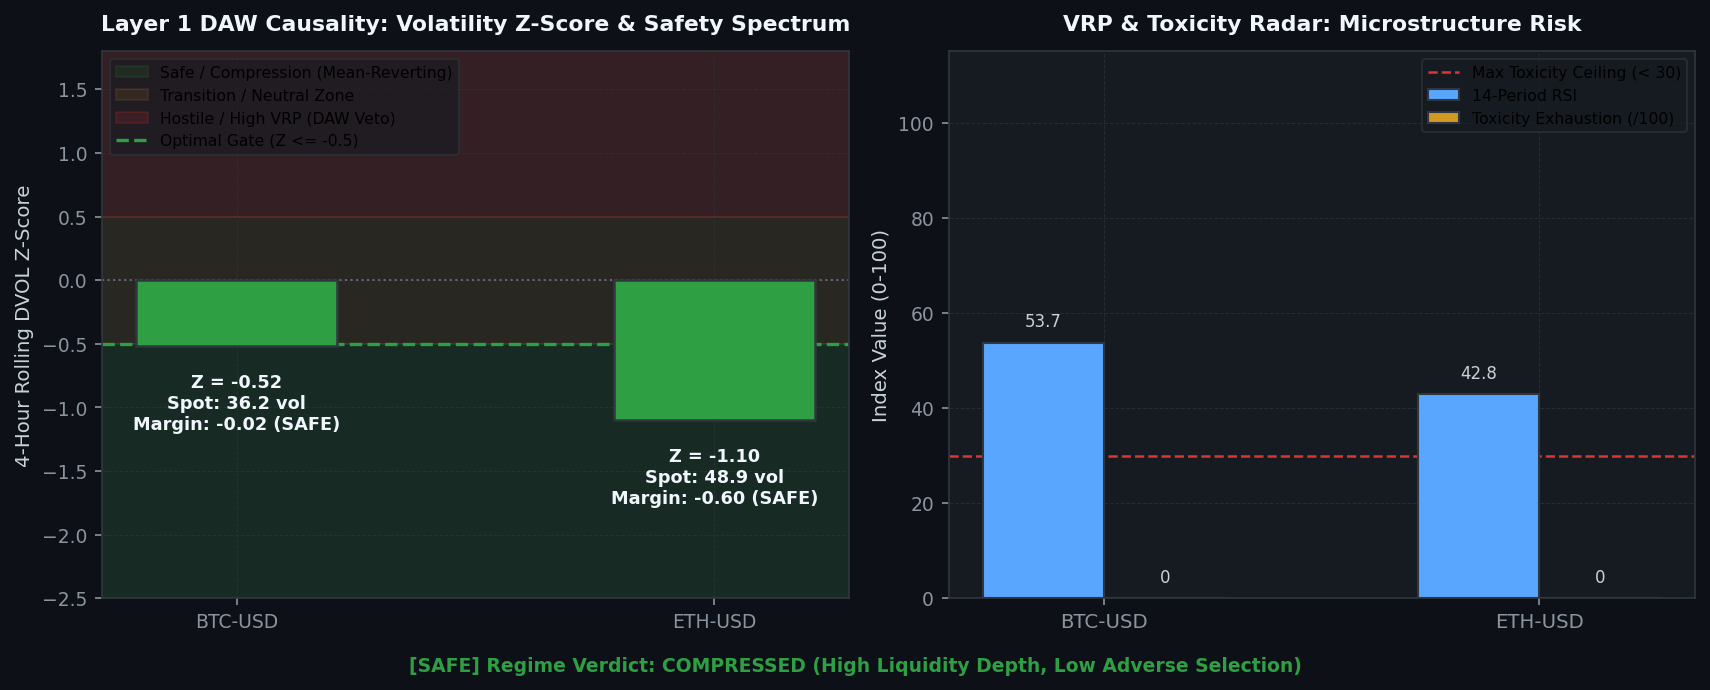
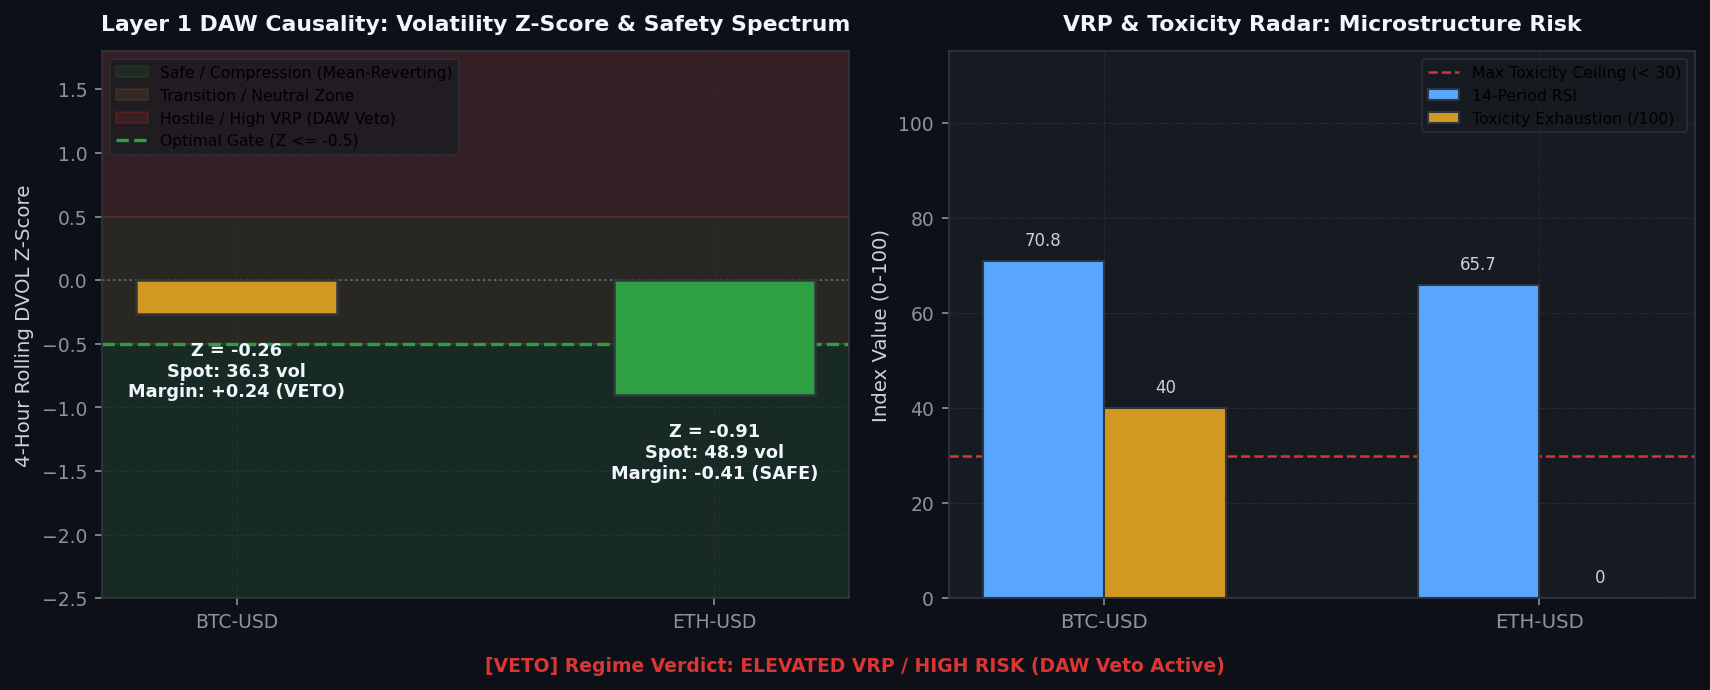
[coinbase] Hourly Status & Visual Intelligence Update: 2026-10-05 07:26:51

diff --git a/coinbase/data/hourly_status_report.md b/coinbase/data/hourly_status_report.md
@@ -3,7 +3,7 @@ layout: default
 ---
 
 # 🛡 Unified Trading System Hourly Status & Visual Intelligence
-> **Report Generated**: `2026-10-05 07:09:20 AM PDT (2026-10-05 14:09:20 UTC)`  
+> **Report Generated**: `2026-10-05 07:26:33 AM PDT (2026-10-05 14:26:33 UTC)`  
 > **System Health**: **🟡 DEGRADED / RESTRICTED** | **Win Rate**: `0.0%` | **Completed Trades**: `0`
 
 
@@ -15,13 +15,13 @@ Real-time Deribit implied volatility (DVOL) proxy tracking against mathematicall
 
 | Symbol | Proxy Oracle | Live Z-Score | Optimal Limit (YSP) | Safety Margin | Live VRP | Optimal VRP (YSP) | DAW Safety Verdict |
 | :--- | :--- | :--- | :--- | :--- | :--- | :--- | :--- |
-| `BTC-USD` | DVOL_BTC | **-0.52** | **-0.50** | **-0.02** | **+22.91** | -1.0 | 🔴 DAW VETOED |
-| `ETH-USD` | DVOL_ETH | **-1.10** | **-0.50** | **-0.60** | **+39.13** | -1.0 | 🔴 DAW VETOED |
-| `SOL-USD` | DVOL_BTC | **-0.52** | **-0.50** | **-0.02** | **+22.89** | -1.0 | 🔴 DAW VETOED |
-| `DOGE-USD` | DVOL_BTC | **-0.52** | **-0.50** | **-0.02** | **+22.89** | -1.0 | 🔴 DAW VETOED |
-| `AVAX-USD` | DVOL_BTC | **-0.52** | **-0.50** | **-0.02** | **+22.91** | -1.0 | 🔴 DAW VETOED |
-| `LINK-USD` | DVOL_BTC | **-0.52** | **-0.50** | **-0.02** | **+22.91** | -1.0 | 🔴 DAW VETOED |
-| `XRP-USD` | DVOL_BTC | **-0.52** | **-0.50** | **-0.02** | **+22.89** | 5.0 | 🔴 DAW VETOED |
+| `BTC-USD` | DVOL_BTC | **-0.26** | **-0.50** | **+0.24** | **+22.91** | -1.0 | 🔴 DAW VETOED |
+| `ETH-USD` | DVOL_ETH | **-0.91** | **-0.50** | **-0.41** | **+39.13** | -1.0 | 🔴 DAW VETOED |
+| `SOL-USD` | DVOL_BTC | **-0.26** | **-0.50** | **+0.24** | **+22.89** | -1.0 | 🔴 DAW VETOED |
+| `DOGE-USD` | DVOL_BTC | **-0.26** | **-0.50** | **+0.24** | **+22.89** | -1.0 | 🔴 DAW VETOED |
+| `AVAX-USD` | DVOL_BTC | **-0.26** | **-0.50** | **+0.24** | **+22.91** | -1.0 | 🔴 DAW VETOED |
+| `LINK-USD` | DVOL_BTC | **-0.26** | **-0.50** | **+0.24** | **+22.91** | -1.0 | 🔴 DAW VETOED |
+| `XRP-USD` | DVOL_BTC | **-0.26** | **-0.50** | **+0.24** | **+22.89** | 5.0 | 🔴 DAW VETOED |
 
 
 
@@ -37,12 +37,12 @@ We hereby certify that the mission-critical algorithmic data assets uploaded by 
 
 | Status | Data Asset | Freshness / State | Details / Timestamp |
 | :---: | :--- | :--- | :--- |
-| ✅ | **Go-List JSON** | Fresh (3.99h old) | 10-05 03:10 |
-| ✅ | **TimesFM Forecasts** | Fresh (4.28h old) | 10-05 02:52 |
-| ✅ | **Holding Times config** | Fresh (3.99h old) | 10-05 03:10 |
-| ✅ | **BTC DVOL Cache** | Fresh (0.00h old) | 10-05 07:09 |
-| ✅ | **ETH DVOL Cache** | Fresh (0.00h old) | 10-05 07:09 |
-| ❌ | **Live Causal Telemetry** | STALE! (475.5h old) | Limit 0.5h |
+| ✅ | **Go-List JSON** | Fresh (4.27h old) | 10-05 03:10 |
+| ✅ | **TimesFM Forecasts** | Fresh (4.56h old) | 10-05 02:52 |
+| ✅ | **Holding Times config** | Fresh (4.27h old) | 10-05 03:10 |
+| ✅ | **BTC DVOL Cache** | Fresh (0.01h old) | 10-05 07:26 |
+| ✅ | **ETH DVOL Cache** | Fresh (0.00h old) | 10-05 07:26 |
+| ❌ | **Live Causal Telemetry** | STALE! (475.7h old) | Limit 0.5h |
 
 <br>
 
@@ -135,14 +135,14 @@ Live balance sheet and open maker liquidity positions from Coinbase CDP.
 ## 6. 🤖 Foundation Model MLOps & Pipeline Orchestration
 Weekly Algorithmic Mega Cap selection, Zero-shot multi-step forward return forecasts, and VSTEF parameter grid search status.
 
-- **TimesFM Forecast DB**: 🟢 Updated 4.3h ago (2026-10-05 02:52 AM PDT)
+- **TimesFM Forecast DB**: 🟢 Updated 4.6h ago (2026-10-05 02:52 AM PDT)
 - **Last Weekly VSTEF Optimization**: `2026-10-05 02:52:55 AM PDT`
-- **Next Scheduled VSTEF Run**: `2026-10-11 07:00:00 PM PDT (Monday 02:00 UTC)` (Countdown: **155.8h (6d 11h 50m)**)
+- **Next Scheduled VSTEF Run**: `2026-10-11 07:00:00 PM PDT (Monday 02:00 UTC)` (Countdown: **155.6h (6d 11h 33m)**)
 - **Promoted Parameter Gates**: $Z_{DVOL} \le -0.5$ | Holding Horizon $= 12\text{h}$
 
 ### Algorithmic Mega Cap Selection
 - **Last Run (Confirmation)**: `2026-10-05 03:10:22 AM PDT`
-- **Next Scheduled Run**: `2026-10-11 06:00:00 PM PDT (Monday 01:00 UTC)` (Countdown: **154.8h (6d 10h 50m)**)
+- **Next Scheduled Run**: `2026-10-11 06:00:00 PM PDT (Monday 01:00 UTC)` (Countdown: **154.6h (6d 10h 33m)**)
 - **Selected Mega Cap Universe**: `BTC, ETH, SOL, DOGE, AVAX, LINK, XRP`
 
 
@@ -158,9 +158,9 @@ Visualizing the impact of the VSTEF (Volatility-Synchronized Stop-Tightening Exe
 ================================================================================
    🛡  CAUSAL HFT GUARDIAN WATCHDOG v7.0.0 (CANARY ACTIVE)
 ================================================================================
-1297836    13:45:14  0.0  0.0 bash -c cd /opt/hft_trader && sudo nohup /opt/hft_trader/venv/bin/python3 -u /opt/hft_trader/guardian_causal.py > /opt/hft_trader/logs/guardian_causal.log 2>&1 < /dev/null &
-1297837    13:45:14  0.0  0.0 sudo nohup /opt/hft_trader/venv/bin/python3 -u /opt/hft_trader/guardian_causal.py
-1297839    13:45:14  0.0  0.0 /opt/hft_trader/venv/bin/python3 -u /opt/hft_trader/guardian_causal.py
+1297836    14:02:26  0.0  0.0 bash -c cd /opt/hft_trader && sudo nohup /opt/hft_trader/venv/bin/python3 -u /opt/hft_trader/guardian_causal.py > /opt/hft_trader/logs/guardian_causal.log 2>&1 < /dev/null &
+1297837    14:02:26  0.0  0.0 sudo nohup /opt/hft_trader/venv/bin/python3 -u /opt/hft_trader/guardian_causal.py
+1297839    14:02:26  0.0  0.0 /opt/hft_trader/venv/bin/python3 -u /opt/hft_trader/guardian_causal.py
 ```
 
 ---

diff --git a/coinbase/data/visual_intelligence.md b/coinbase/data/visual_intelligence.md
@@ -4,7 +4,7 @@ title: Visual Intelligence Gallery
 ---
 
 # 📈 Visual Intelligence Gallery
-> **Generated:** `2026-10-05 07:09:39`
+> **Generated:** `2026-10-05 07:26:51`
 > **[Return to Main Status Report](./hourly_status_report.md)**
 
 This page visualizes the internal states, market profiles, and decision criteria of the active **3-Tier Fused Decision Engine** across all layers.
